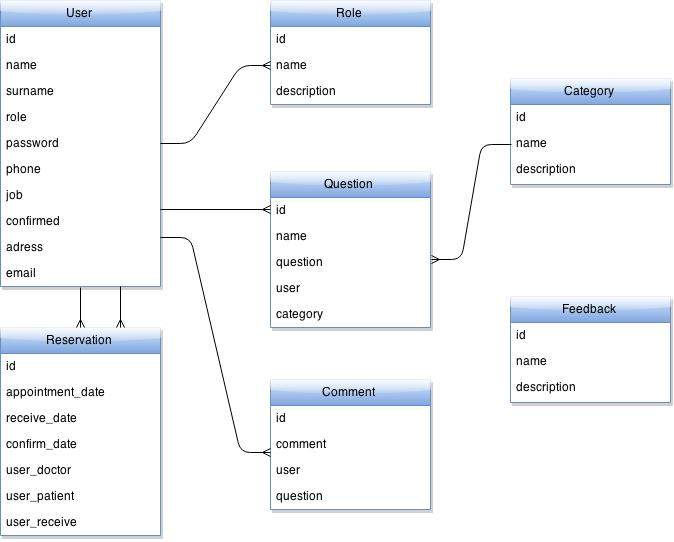
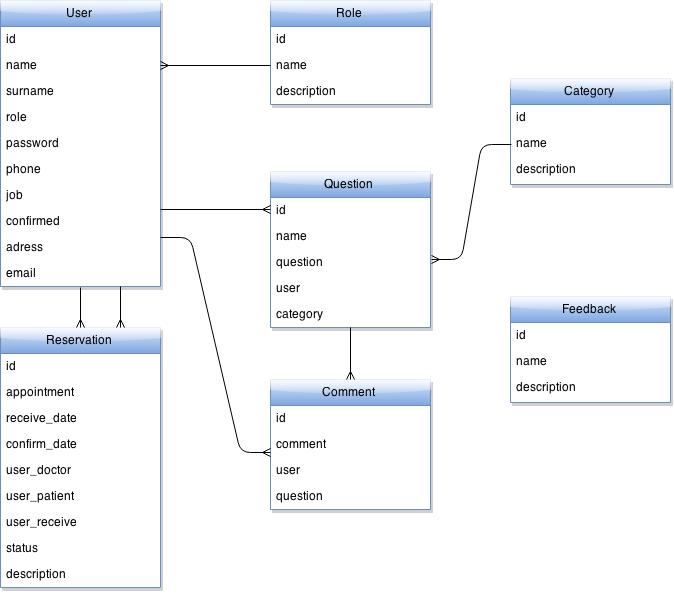
Reservation columns changed and models corrected

diff --git a/eSavjetovaliste/db/migrate/20150320185233_change_columns_in_reservation.rb b/eSavjetovaliste/db/migrate/20150320185233_change_columns_in_reservation.rb
@@ -1,0 +1,11 @@
+class ChangeColumnsInReservation < ActiveRecord::Migration
+  def change
+  	add_column :reservations, :status, :string
+  	add_column :reservations, :receive_date, :timestamp
+  	add_column :reservations, :confirm_date, :timestamp
+  	rename_column :reservations, :user_id, :user_receive_id
+  	rename_column :reservations, :user_paitent_id, :user_patient_id
+  	rename_column :reservations, :appointment, :appointment_date
+  	add_column :reservations, :description, :string
+  end
+end

diff --git a/eSavjetovaliste/db/schema.rb b/eSavjetovaliste/db/schema.rb
@@ -11,7 +11,8 @@
 #
 # It's strongly recommended that you check this file into your version control system.
 
->>>>>>> 4299fca7e2cf419693dd43ec5bda975856f3242d
+ActiveRecord::Schema.define(version: 20150320185233) do
+
   # These are extensions that must be enabled in order to support this database
   enable_extension "plpgsql"
 

diff --git a/eSavjetovaliste/app/models/reservation.rb b/eSavjetovaliste/app/models/reservation.rb
@@ -1,4 +1,5 @@
 class Reservation < ActiveRecord::Base
-  belongs_to :user
-  belongs_to :user
+  belongs_to :user_doctor_id, class_name: "User"
+  belongs_to :user_patient_id, class_name: "User"
+  belongs_to :user_receive_id, class_name: "User"
 end

diff --git a/eSavjetovaliste/app/models/category.rb b/eSavjetovaliste/app/models/category.rb
@@ -1,2 +1,3 @@
 class Category < ActiveRecord::Base
+	has_many :questions
 end
